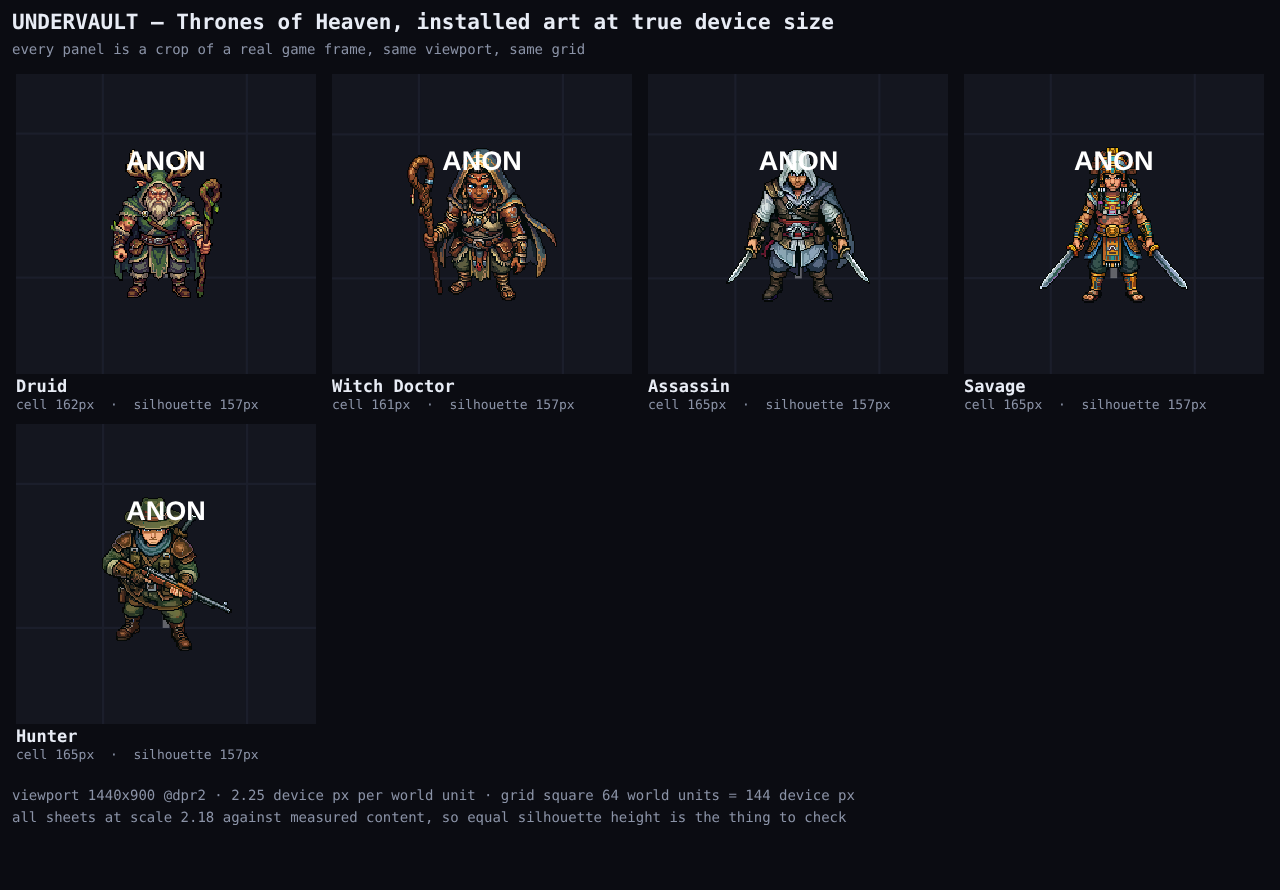
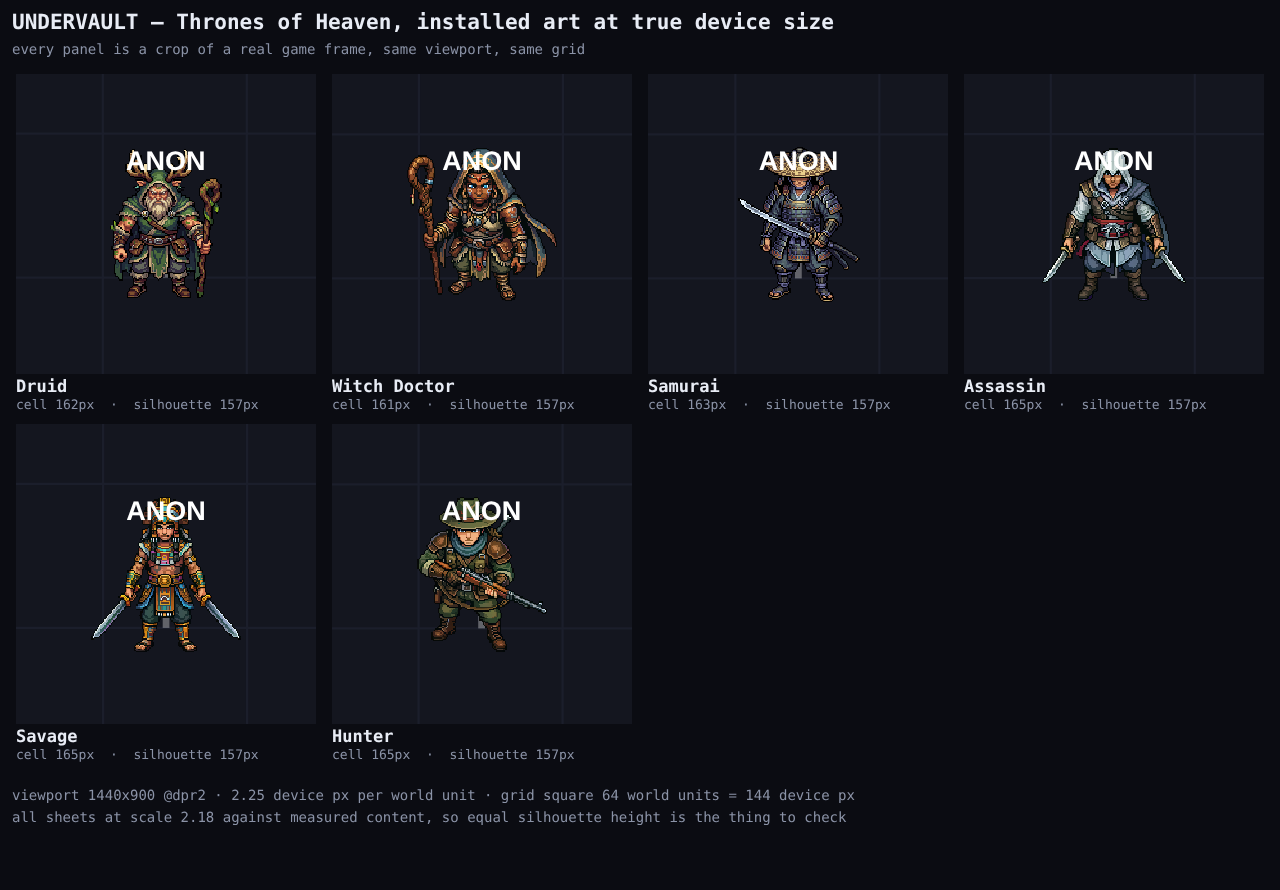
Samurai installed at 2.18 — six characters, and the palette read changes
Fifth of the 13. Eight 248x248 RGBA facings supplied 2026-08-04 across two
messages of four; not assembled until all eight were present. Committed verbatim
under docs/art-review/batch1/samurai/sources/ at the md5s they arrived with.

  E  3fca26e663c31c64c89c3c7d9fdc264a    W  1a3d9b0778bc2284d9f5b0a8cafe1db1
  SE b3372b3d0d4cdff40af3a7959ef765c4    NW 944ff0ea7cf25720932c672f52f3aef8
  S  327f60b3d28345492ba1ca63c0e4418f    N  c60db14aaf083828956e0ac577f6ff43
  SW 85d1ad6dc2ff86768f596d8d4a032ff3    NE 26100c7d936ddf3b7a7c39a01634bcc3

assets/sprites/char/toh_samurai.png, 128x1024, directions 8, content [97,123],
scale 2.18. Autocrop 248x248 -> 116x124, no resampling.

SIZE, measured off the renderer's own drawImage at 1440x900 @dpr2. Six sheets,
six content boxes, three canvas sizes, cell fills 95.3-97.7%:

  Druid (anchor) 2.18  1.0323  90x124    162.0   157.0    --
  Witch Doctor   2.18  1.0240  120x125   160.7   157.0   +0.00%
  Samurai        2.18  1.0407  97x123    163.3   157.0   -0.00%
  Assassin       2.18  1.0492  121x122   164.7   157.0   -0.00%
  Savage         2.18  1.0492  117x122   164.7   157.0   -0.00%
  Hunter         2.18  1.0492  101x122   164.7   157.0   -0.00%

Cells span 4 device px. Silhouettes identical to a tenth of a pixel.

Per-facing spread 2.4%, tight like the Savage's 1.6%.

GATE: structural only, passes clean, nothing waived.

THE PALETTE READ HAS CHANGED, and this is the part worth reading. Last commit,
[…]

diff --git a/docs/art-review/batch1/README.md b/docs/art-review/batch1/README.md
@@ -1,6 +1,6 @@
 # Batch 1 — Thrones of Heaven
 
-Thirteen characters to install. **Four are in.**
+Thirteen characters to install. **Five are in.**
 
 | | character | id | status |
 |---|---|---|---|
@@ -8,7 +8,8 @@ Thirteen characters to install. **Four are in.**
 | ✓ | Witch Doctor | `char.toh_witch_doctor` | installed |
 | ✓ | Assassin | `char.toh_assassin` | installed |
 | ✓ | Savage | `char.toh_savage` | installed |
-| | Blacksmith · Wizard · Necromancer · Mage · Bard · Samurai · Monk · Priest · Sundian | | awaiting art (9) |
+| ✓ | Samurai | `char.toh_samurai` | installed |
+| | Blacksmith · Wizard · Necromancer · Mage · Bard · Monk · Priest · Sundian | | awaiting art (8) |
 
 The Druid (`char.toh_druid`) is the style anchor and is not part of batch 1 —
 see [`../druid/README.md`](../druid/README.md) and
@@ -29,6 +30,7 @@ artifact of padding.
 |---|---|---|---|---|---|---|
 | Druid (anchor) | 2.18 | 1.0323 | 90×124 | 162.0 | **157.0** | — |
 | Witch Doctor | 2.18 | 1.0240 | 120×125 | 160.7 | **157.0** | **+0.00%** |
+| Samurai | 2.18 | 1.0407 | 97×123 | 163.3 | **157.0** | **−0.00%** |
 | Assassin | 2.18 | 1.0492 | 121×122 | 164.7 | **157.0** | **−0.00%** |
 | Savage | 2.18 | 1.0492 | 117×122 | 164.7 | **157.0** | **−0.00%** |
 | Hunter | 2.18 | 1.0492 | 101×122 | 164.7 | **157.0** | **−0.00%** |
@@ -36,9 +38,9 @@ artifact of padding.
 Measured off the renderer's own `drawImage` in a real arena. Nothing is more
 than 5% off the Druid.
 
-Five sheets, five different content boxes, cell fills from 95.3% to 97.7%, and
-**three different source canvases**: 244×244 (Savage), 248×248 (Druid,
-Assassin), 256×256 (Hunter, Witch Doctor). Their **cells** span 160.7 to 164.7
+Six sheets, six different content boxes, cell fills from 95.3% to 97.7%, and
+**three different source canvases**: 244×244 (Savage), 248×248 (Druid, Assassin,
+Samurai), 256×256 (Hunter, Witch Doctor). Their **cells** span 160.7 to 164.7
 device px, a 4px spread that means nothing. Their **silhouettes are identical to
 a tenth of a pixel.**
 
@@ -60,11 +62,12 @@ would render its other seven short. Measured:
 | Witch Doctor | 125 122 122 124 122 118 122 125 | 125 | 118 | 5.6% |
 | Assassin | 120 120 119 122 120 115 120 121 | 122 | 115 | 5.7% |
 | Savage | 122 121 121 122 122 120 121 122 | 122 | 120 | **1.6%** |
+| Samurai | 122 123 122 123 122 121 120 121 | 123 | 120 | **2.4%** |
 
-Four sit in the same ~5% band and the Savage is notably tighter at 1.6% — his
-pose barely changes height between facings, where the others bob a few pixels.
-Nothing to act on; it just means his eight drawings are unusually consistent
-with each other. All five sit, so no facing is dragging its character
+Four sit in the same ~5% band; the Savage (1.6%) and Samurai (2.4%) are notably
+tighter — their poses barely change height between facings, where the others bob
+a few pixels. Nothing to act on; it just means those eight drawings are unusually
+consistent with each other. All six sit, so no facing is dragging its character
 smaller. Worth re-checking per character: a raised staff or a leaping pose in
 one facing only would show up here as a spread well outside this range, and the
 fix would be art-side rather than a scale tweak.
@@ -170,37 +173,66 @@ messages of four; not assembled until all eight were present.
 Assembled to `assets/sprites/char/toh_savage.png`, 128×1024, `directions: 8`,
 `content: [117, 122]`, `scale: 2.18`. Autocrop 244×244 → 120×122.
 
+### Samurai
+
+Supplied 2026-08-04, eight **248×248** RGBA PNGs, in two messages of four; not
+assembled until all eight were present.
+
+| facing | md5 | file |
+|---|---|---|
+| E | `3fca26e663c31c64c89c3c7d9fdc264a` | `samurai/sources/east.png` |
+| SE | `b3372b3d0d4cdff40af3a7959ef765c4` | `samurai/sources/southeast.png` |
+| S | `327f60b3d28345492ba1ca63c0e4418f` | `samurai/sources/south.png` |
+| SW | `85d1ad6dc2ff86768f596d8d4a032ff3` | `samurai/sources/southwest.png` |
+| W | `1a3d9b0778bc2284d9f5b0a8cafe1db1` | `samurai/sources/west.png` |
+| NW | `944ff0ea7cf25720932c672f52f3aef8` | `samurai/sources/northwest.png` |
+| N | `c60db14aaf083828956e0ac577f6ff43` | `samurai/sources/north.png` |
+| NE | `26100c7d936ddf3b7a7c39a01634bcc3` | `samurai/sources/northeast.png` |
+
+Assembled to `assets/sprites/char/toh_samurai.png`, 128×1024, `directions: 8`,
+`content: [97, 123]`, `scale: 2.18`. Autocrop 248×248 → 116×124.
+
 ## What the contact sheet shows — look at this, not at numbers
 
-Size is settled and mechanical. The sheet is for everything else, and with five
-characters up there is a pattern rather than a one-off.
+Size is settled and mechanical. The sheet is for everything else.
 
-**Two characters are pulling away from the style clause, in opposite
-directions.**
+**Six characters, and the palette splits four to two.**
 
-- The **Assassin** is pale and cool — white hood, blue-grey cloak. His largest
-  value mass sits high, where the anchor's sits low.
-- The **Savage** is warm and high-chroma — orange, turquoise and brass, with a
-  lot of bright saturated mid-tone.
+Inside the style clause — *"muted earthy palette of greens browns and leather,
+desaturated next to arcade colour"*, dark-dominant with a small bright tail:
 
-The clause asks for a *"muted earthy palette of greens browns and leather,
-desaturated next to arcade colour"*. The Druid, Hunter and Witch Doctor all sit
-inside that. These two do not, and they miss it in different directions, so it
-is not a systematic shift the clause could be rewritten to capture.
+- **Druid** — dark greens, leather, antler bone
+- **Hunter** — olive, webbing, gunmetal
+- **Witch Doctor** — bronze and teal over dark cloth
+- **Samurai** — indigo lacquer, straw kasa, steel
 
-One outlier is characterisation. **Two outliers in opposite directions is the
-clause not constraining much** — which matters, because
+Outside it, in **opposite directions**:
+
+- **Assassin** — pale and cool. White hood, blue-grey cloak; his largest value
+  mass sits high where the other four sit low.
+- **Savage** — warm and high-chroma. Orange, turquoise and brass, a lot of
+  bright saturated mid-tone.
+
+### Reading it
+
+At four characters this looked like the clause failing to constrain. At six it
+looks more like **two characters with strong identities and four that agree** —
+the Samurai landed squarely in the group without anything being asked of him,
+which is the first positive evidence the clause is doing work rather than being
+ignored.
+
+That is a change of read, and it was a prediction before it was an observation:
+the Samurai was called as inside-clause from his source files, and the sheet
+confirmed it. Worth stating because the opposite happened with the Assassin —
+he looked unremarkable in isolation and only stood out once he was next to the
+others at 157 px. **The sheet is the evidence; source files are a guess.**
+
+Still open, and cheaper to answer than to keep speculating about:
 [`../../STYLE_ANCHOR.md`](../../STYLE_ANCHOR.md) records that the clause was
-written *from* the Druid and has **never been round-tripped**. Nobody has
-generated a unit from it and checked the result sits next to him. That test
-being outstanding is now the most likely explanation for the spread, and it gets
-cheaper to act on the sooner it happens.
+written *from* the Druid and has **never been round-tripped**. If two of the
+remaining eight also scatter, that test stops being optional.
 
-**Nothing has been changed on account of this.** It is an observation for
-whoever looks at the sheet, which is the point of it being here rather than in a
-gate. If the next two or three arrive inside the clause, this was two characters
-with strong identities and the answer is nothing. If they keep scattering, the
-clause needs the round-trip before the remaining nine are commissioned.
+**Nothing has been changed on account of any of this.**
 
 ## A tooling bug this batch found
 
